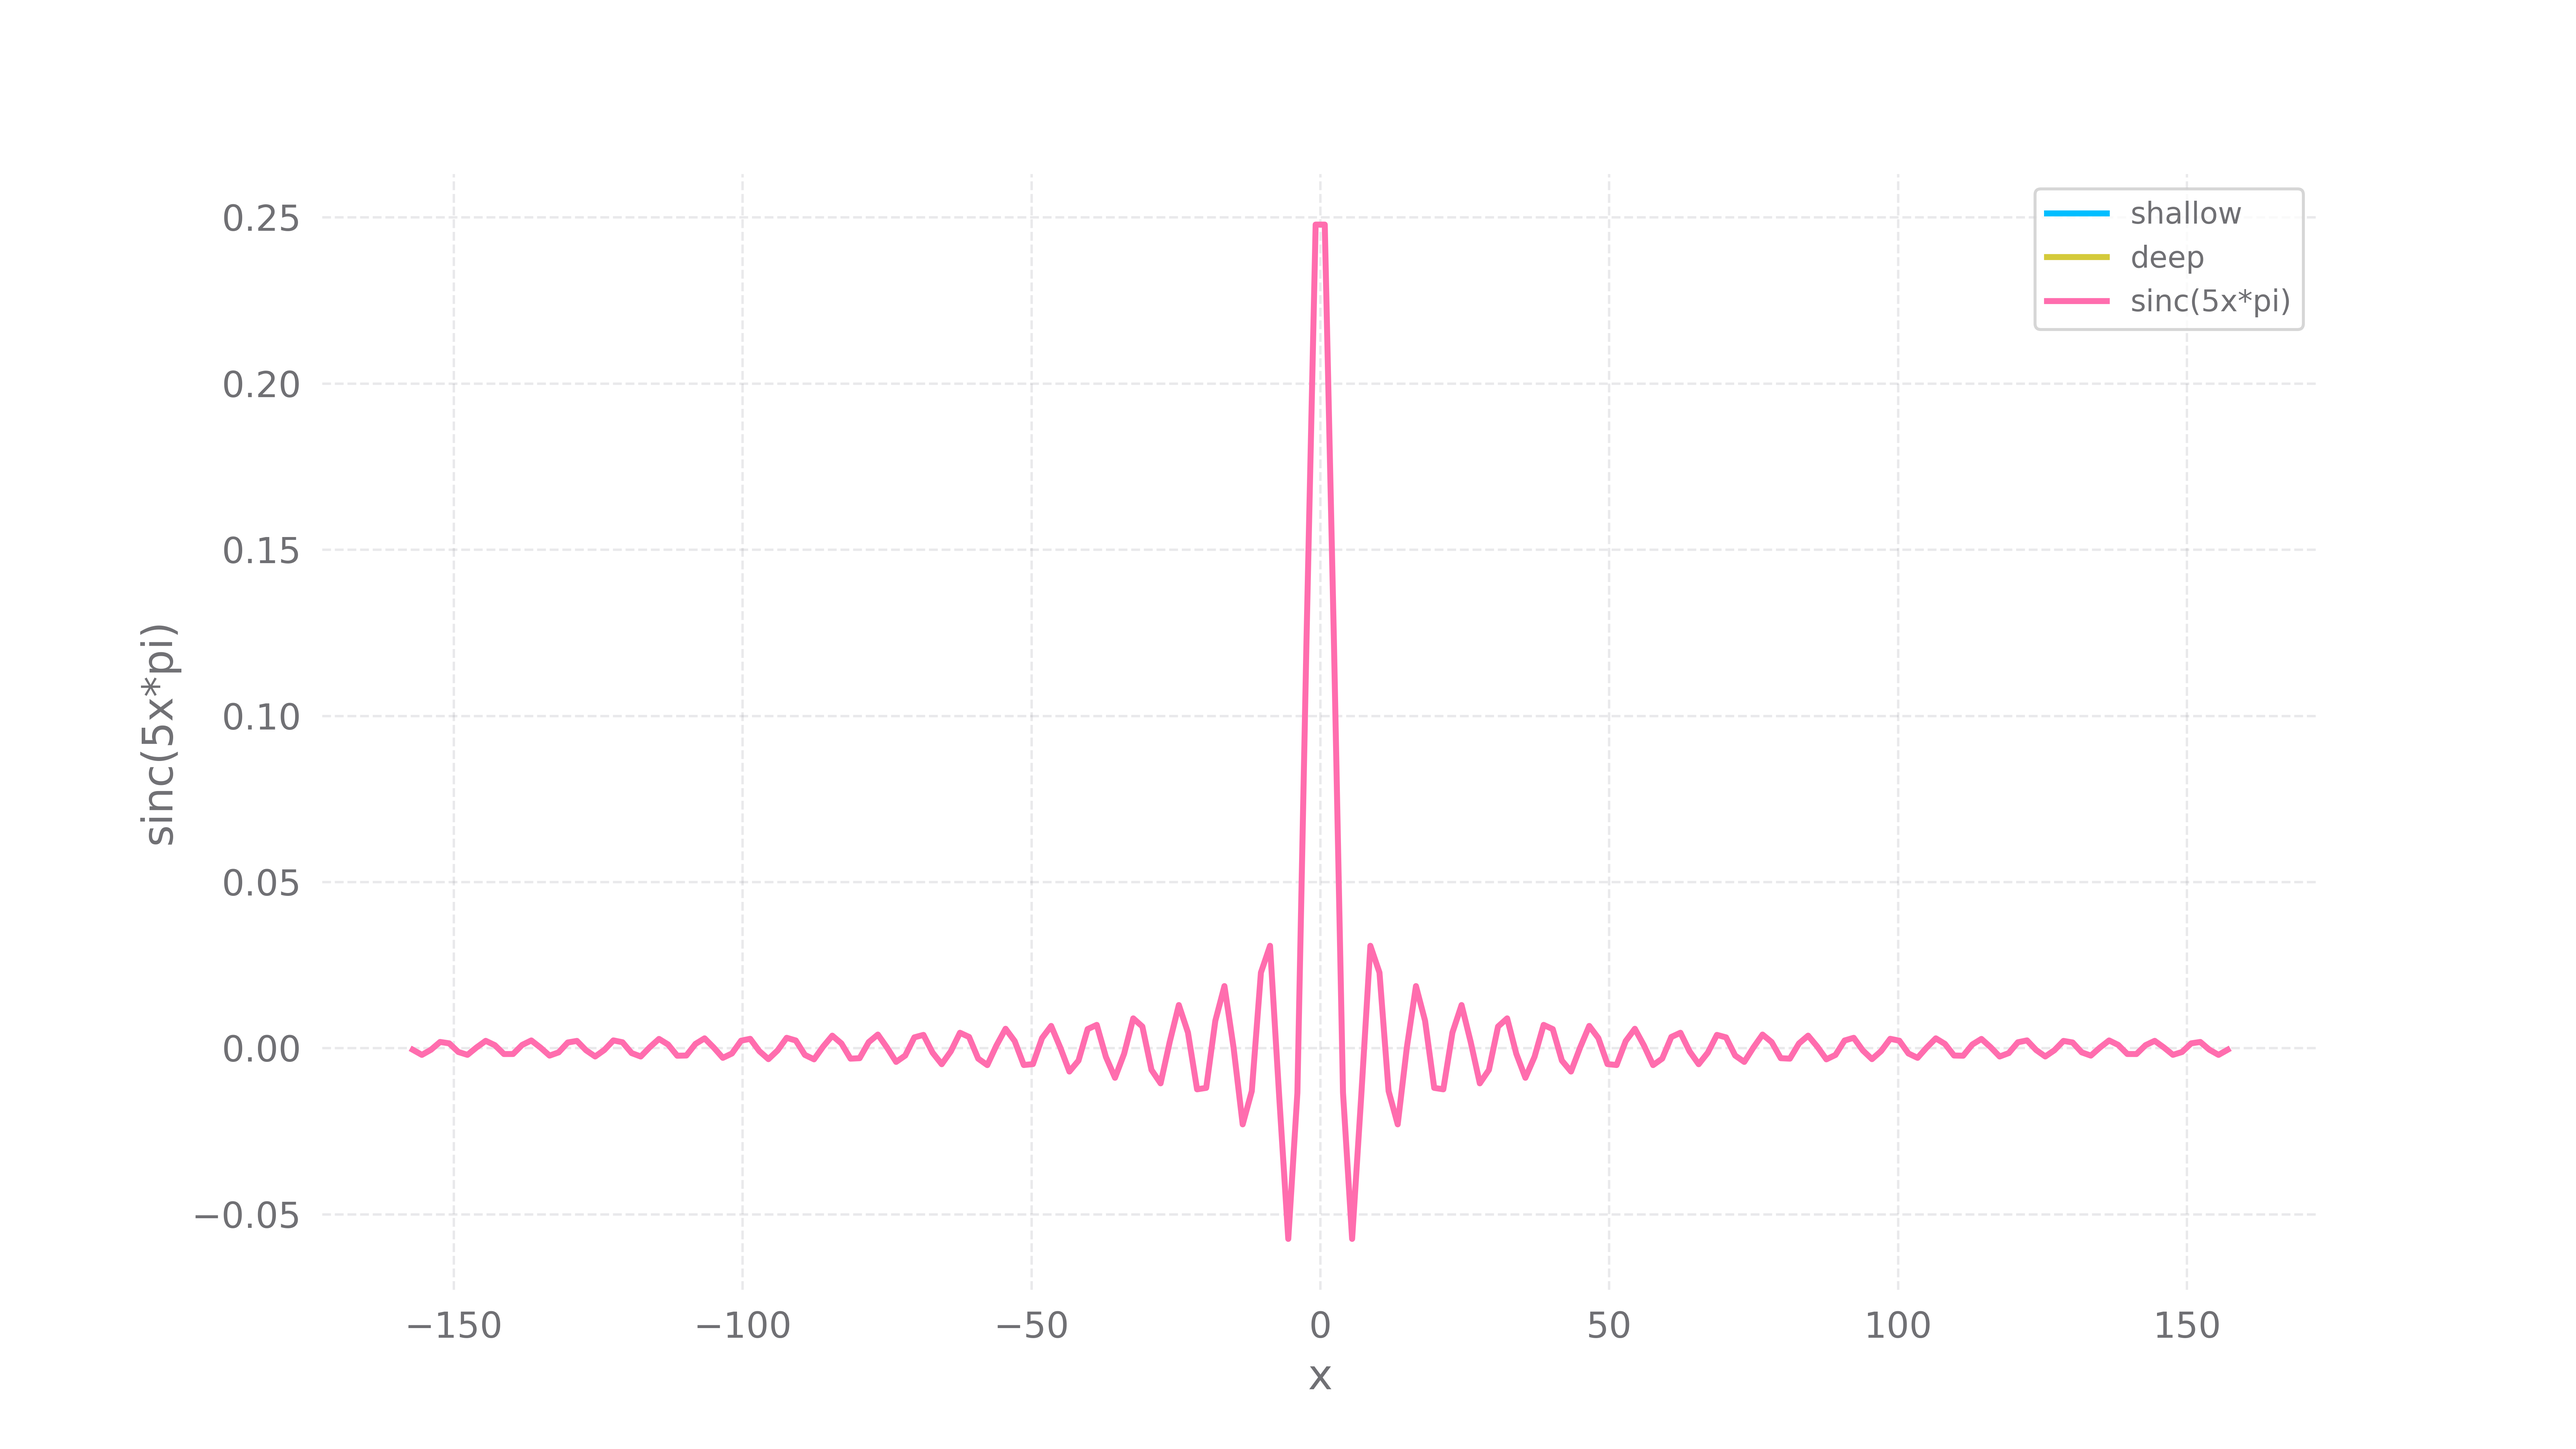
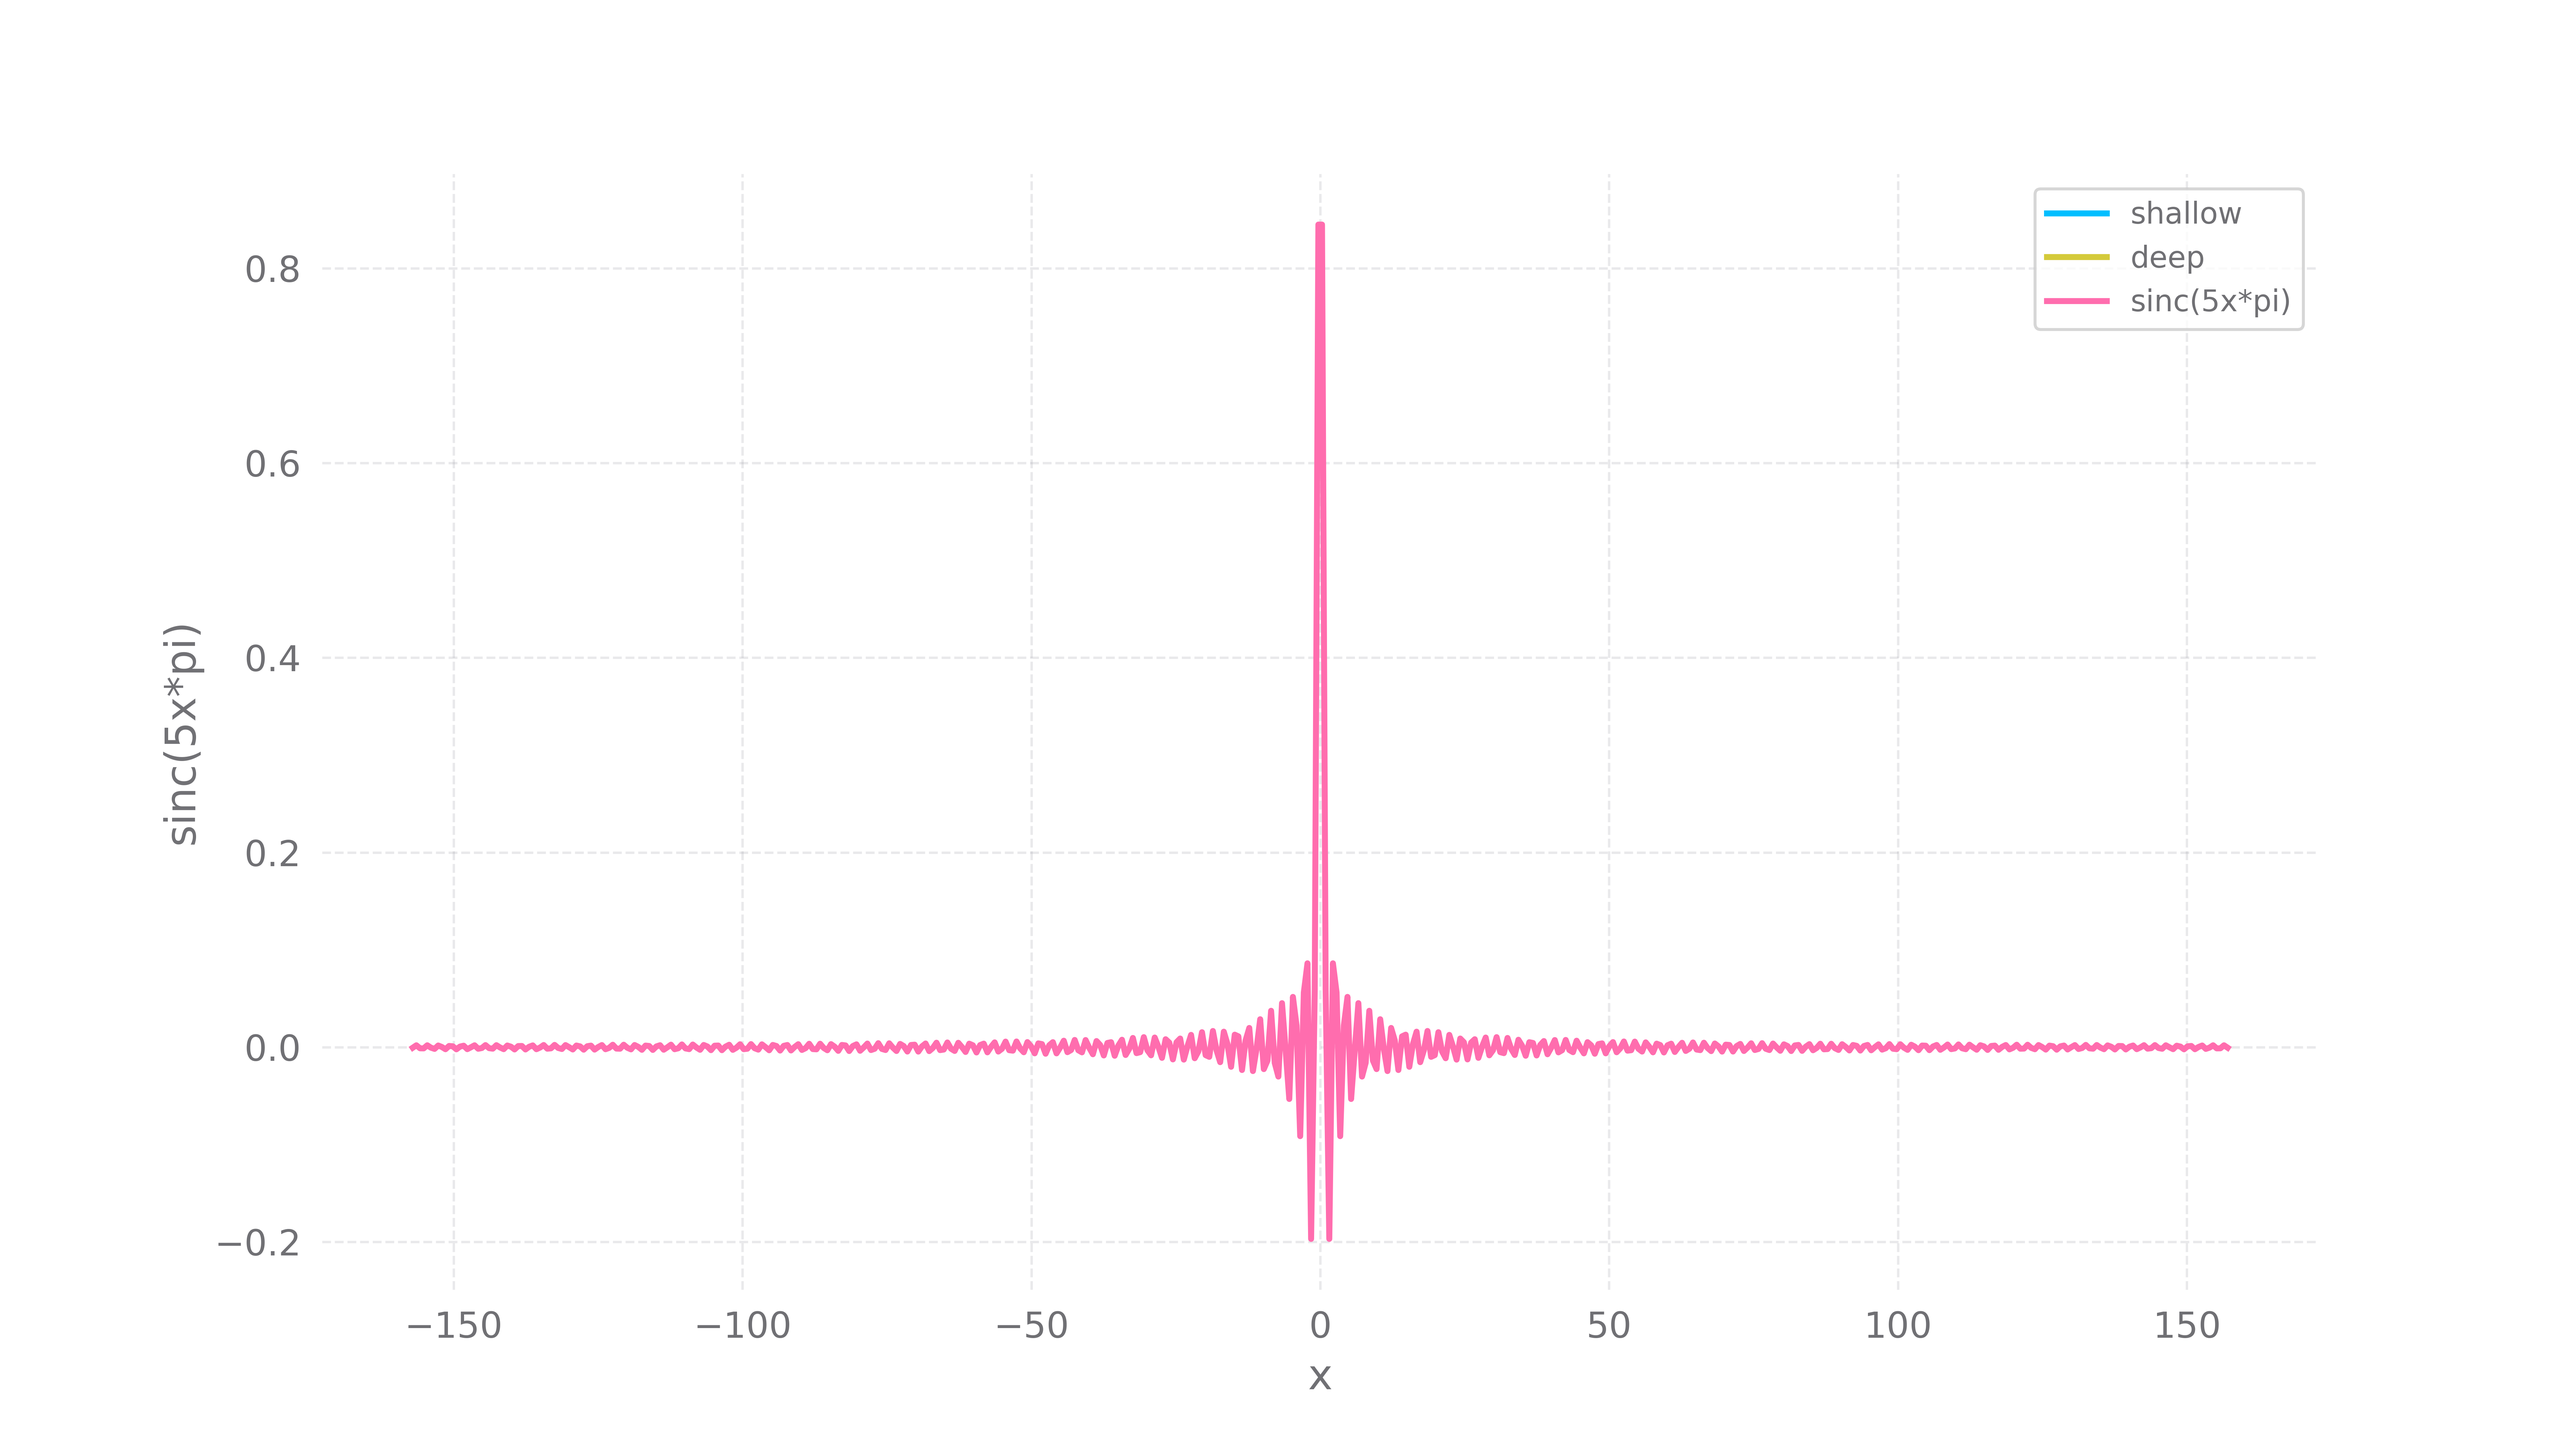
all

diff --git a/hw1-1/main.py b/hw1-1/main.py
@@ -2,11 +2,16 @@ import tensorflow as tf
 import numpy as np
 import matplotlib.pyplot as plt
 import tqdm
+import os
+import pickle
 try:
     plt.style.use('gadfly')
 except:
     pass
-
+try:
+    os.environ["CUDA_VISIBLE_DEVICES"]="0"
+except:
+    pass
 
 class ShallowNet():
     def __init__(self, in_dim=1, out_dim=1, model_type='regression'):
@@ -35,15 +40,15 @@ class ShallowNet():
                 his.append(sess.run(self._loss, feed_dict=fd))
                 choice = np.random.choice(len(x), len(x), replace=False)
                 x, y = x[choice], y[choice]
-            pred = sess.run(self._out_layer, feed_dict={self.x: x, self.y: y})
+            pred = sess.run(self._out_layer, feed_dict={self.x: x})
         return his, pred
 
 class DeepNet():
     def __init__(self, in_dim=1, out_dim=1, model_type='regression'):
         self.x = tf.placeholder(dtype=tf.float32, shape=[None, in_dim])
         self.y = tf.placeholder(dtype=tf.float32, shape=[None, out_dim])
-        self._hidden_layer = tf.layers.dense(self.x, 7, activation=tf.nn.relu)
-        self._hidden_layer2 = tf.layers.dense(self._hidden_layer, 7, activation=tf.nn.relu)
+        self._hidden_layer = tf.layers.dense(self.x, 10, activation=tf.nn.relu)
+        self._hidden_layer2 = tf.layers.dense(self._hidden_layer, 10, activation=tf.nn.relu)
         self._out_layer = tf.layers.dense(self._hidden_layer, out_dim)
         if model_type=='regression':
             self._loss = tf.losses.mean_squared_error(self._out_layer, self.y)
@@ -69,12 +74,12 @@ class DeepNet():
             pred = sess.run(self._out_layer, feed_dict={self.x: x, self.y: y})
         return his, pred
 
-def plot(his1, his2, name='mnist'):
+def plot(his1, his2, name='mnist', limit=10):
     plt.plot(np.arange(len(his1)), his1, label='shallow', alpha=0.4)
     plt.plot(np.arange(len(his2)), his2, label='deep', alpha=0.4)
     plt.legend()
     
-    plt.ylim(0, 10)
+    plt.ylim(0, limit)
     # plt.yscale('log')
     plt.xlabel('epoch')
     plt.ylabel('loss')
@@ -82,12 +87,13 @@ def plot(his1, his2, name='mnist'):
     
     plt.savefig('hw1-1/{}.png'.format(name), dpi=600)
     plt.close()
+    pickle.dump({'shallow': his1, 'deep': his2}, open('hw1-1/his.p'))
     return
 
 def simulate(pred1, pred2):
     x_sinc_ = np.linspace(-10, 10, 500) * 5 * 3.1415926
     y_sinc_ = np.sinc(x_sinc_)
-    x_ = np.linspace(-10, 10, 50) * 5 * 3.1415926
+    x_ = np.linspace(-10, 10, 500) * 5 * 3.1415926
     plt.plot(x_, pred1, label='shallow')
     plt.plot(x_, pred2, label='deep')
     plt.plot(x_sinc_, y_sinc_, label='sinc(5x*pi)')
@@ -100,22 +106,23 @@ def simulate(pred1, pred2):
 
 if __name__ == '__main__':
     plt.rcParams["figure.figsize"] = (12,6.75)
-    x_sinc = np.linspace(-10, 10, 250) * 5 * 3.1415926
-    y_sinc = np.sinc(x_sinc)
-    x_sinc, y_sinc = x_sinc[:, np.newaxis], y_sinc[:, np.newaxis]
-    net1 = ShallowNet(out_dim=1)
-    his1, pred1 = net1.train(x_sinc, y_sinc)
-    net2 = DeepNet(out_dim=1)
-    his2, pred2 = net2.train(x_sinc, y_sinc)
-    plot(his1, his2, 'sinc(5x*pi)')
-    simulate(pred1, pred2)
-    del (net1, net2)
+    # x_sinc = np.linspace(-10, 10, 500) * 5 * 3.1415926
+    # y_sinc = np.sinc(x_sinc)
+    # x_sinc, y_sinc = x_sinc[:, np.newaxis], y_sinc[:, np.newaxis]
+    # net1 = ShallowNet(out_dim=1)
+    # his1, pred1 = net1.train(x_sinc, y_sinc)
+    # net2 = DeepNet(out_dim=1)
+    # his2, pred2 = net2.train(x_sinc, y_sinc)
+    # # print(pred1)
+    # plot(his1, his2, 'sinc(5x*pi)', limit=20)
+    # simulate(pred1, pred2)
+    # del (net1, net2)
     
     (x_mnist, y_), (_, __) = tf.keras.datasets.mnist.load_data()
     x_mnist, y_mnist = x_mnist.reshape([x_mnist.shape[0], -1]), np.zeros((len(x_mnist), 10))
     y_mnist[np.arange(60000), y_] = 1
     net1 = ShallowNet(in_dim=28*28, out_dim=10, model_type='classification')
-    his1, _ = net1.train(x_mnist, y_mnist)
+    his1, _ = net1.train(x_mnist, y_mnist, epoch=1000)
     net2 = DeepNet(in_dim=28*28, out_dim=10, model_type='classification')
-    his2, _ = net2.train(x_mnist, y_mnist)
-    plot(his1, his2)
+    his2, _ = net2.train(x_mnist, y_mnist, epoch=1000)
+    plot(his1, his2, limit=4)
